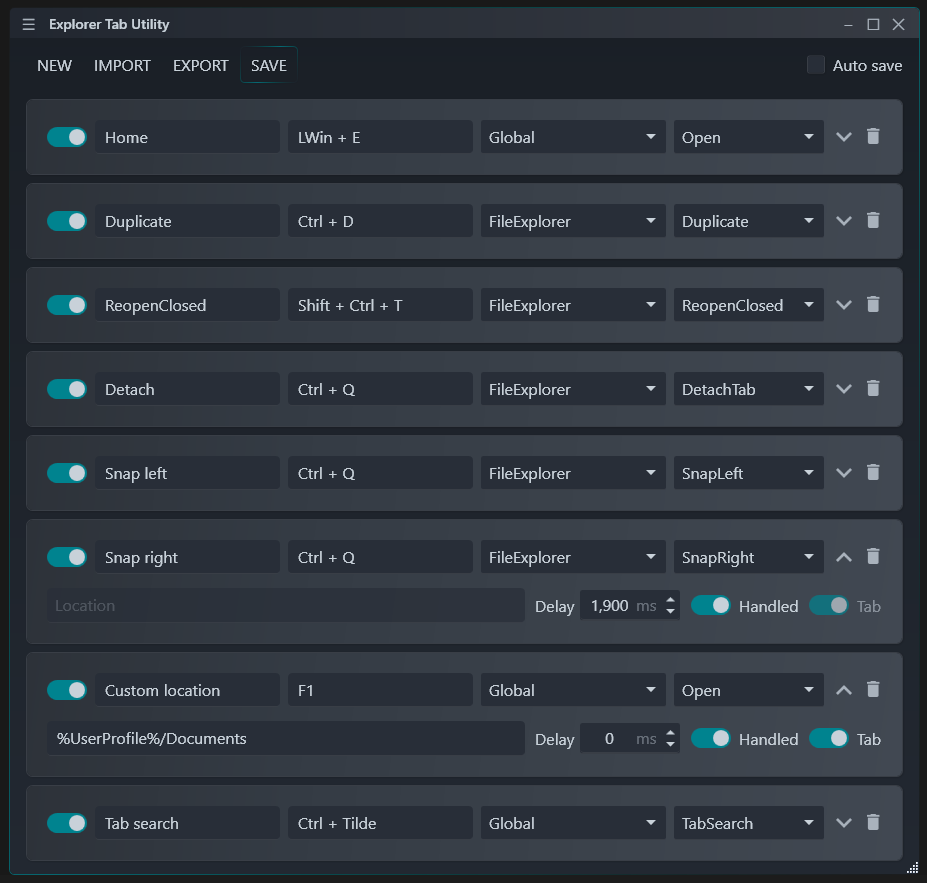
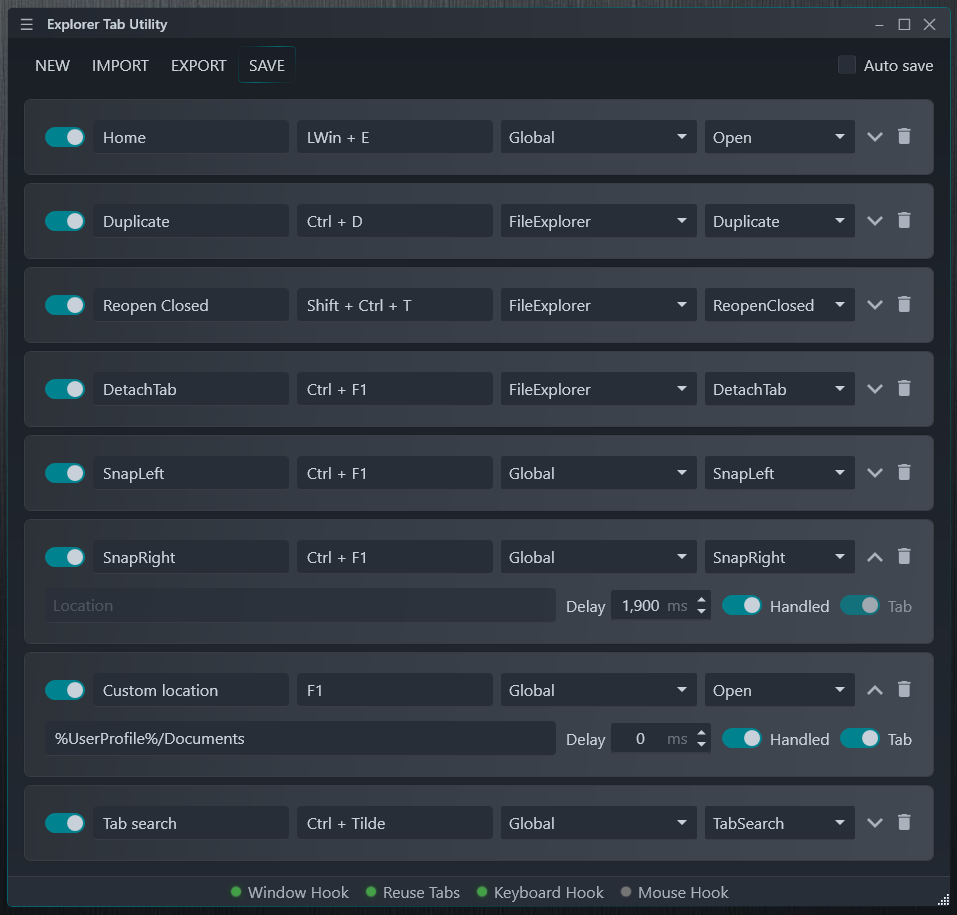
chore: update project version to 2.4.0 and enhance README
- Update the project version in ExplorerTabUtility.csproj to 2.4.0
- Add new features and settings documentation to README.md, including "Restore Previous Windows" and "Force New Window with Ctrl+Shift"
- Include new asset RestorePrevious.png for documentation

diff --git a/README.md b/README.md
@@ -56,9 +56,20 @@ Say goodbye to cluttered desktops with multiple Explorer windows! Explorer Tab U
 - Reopen previously closed tabs/windows
 - Choose whether to reopen as a tab or new window (toggle `Tab` option)
 - Restores the exact location and selected items
+- History is saved across application restarts (enable "Save closed history" in settings)
 
 **See it in action:**
 ![Reopen closed tabs](https://cdn.jsdelivr.net/gh/w4po/ExplorerTabUtility@master/Assets/ReopenClosedTab.gif)
+</details>
+
+<details>
+<summary>🔄 Restore Previous Windows</summary>
+
+- Automatically restore previously opened windows if File-Explorer restart/crash or system reboot
+- Configurable via "Restore previous windows" setting
+- Confirmation dialog allows you to choose whether to restore windows on first launch
+
+![Restore Previous Windows](https://cdn.jsdelivr.net/gh/w4po/ExplorerTabUtility@master/Assets/RestorePrevious.png)
 </details>
 
 <details>
@@ -78,9 +89,9 @@ Say goodbye to cluttered desktops with multiple Explorer windows! Explorer Tab U
 </details>
 
 <details>
-<summary>⬅ Navigate Back & Up</summary>
+<summary>⬅ Navigate Back & Forward</summary>
 
-- Navigate back/up in File Explorer using:
+- Navigate back/forward/up in File Explorer using:
   - Keyboard shortcuts (customizable)
   - Mouse clicks on any empty space in the folder
 - Perfect for quick navigation between directories
@@ -123,6 +134,14 @@ Say goodbye to cluttered desktops with multiple Explorer windows! Explorer Tab U
 </details>
 
 <details>
+<summary>🪟 Force New Window with Ctrl+Shift</summary>
+
+- Hold Ctrl+Shift while opening a location to force it to open as a new window
+- Temporarily overrides the window hook and tab reuse settings
+- Perfect for when you need a separate window without disabling the tab functionality
+</details>
+
+<details>
 <summary>⚡ Performance & Reliability</summary>
 
 - Lightweight and resource-efficient
@@ -138,7 +157,7 @@ Say goodbye to cluttered desktops with multiple Explorer windows! Explorer Tab U
     winget install w4po.ExplorerTabUtility
     ```
     ```powershell
-    choco install explorertabutility
+    choco install explorertabutility --version=2.4.0
     ```
 2. Run the application
 3. Look for the tray icon and you're ready to go!
@@ -154,8 +173,10 @@ Say goodbye to cluttered desktops with multiple Explorer windows! Explorer Tab U
 <details>
 <summary>🔧 General Settings</summary>
 
-- **WindowHook**: Enable/disable new windows being converted to tabs
-- **ReuseTabs**: Enable/disable reusing existing tabs instead of creating new ones
+- **Window Hook**: Enable/disable automatic window-to-tab conversion
+- **Reuse Tabs**: Switch to existing tabs instead of opening duplicates
+- **Keyboard Hook**: Enable/disable keyboard shortcuts
+- **Mouse Hook**: Enable/disable mouse navigation features
 - **Startup**: Configure automatic startup with Windows
 - **Settings Persistence**:
   * Your settings are stored in a JSON file located in your AppData folder:
@@ -170,7 +191,8 @@ Say goodbye to cluttered desktops with multiple Explorer windows! Explorer Tab U
 
 - **Auto update**: Automatically check for updates on startup to ensure you're always using the latest version
 - **I have theme issues**: Use an alternative window hiding method that preserves your custom File Explorer theme. Enable this if you experience theme-related issues
-- **Save closed windows**: Save recently closed windows when exiting the application and restore them on the next startup, allowing you to continue where you left off
+- **Save closed history**: Save recently closed windows for reopening later (ReopenClosed, Tab Search)
+- **Restore previous windows**: Restore previously opened windows after restart or crash
 - **Hide tray icon**: Hide the system tray icon for a cleaner taskbar experience.
   * You must first configure a hotkey with the `ToggleVisibility` action before enabling this option
 
@@ -189,30 +211,28 @@ Say goodbye to cluttered desktops with multiple Explorer windows! Explorer Tab U
 ### Profile Settings
 Each profile contains the following settings:
 
-1. **Basic Settings**
-   - Profile Name
-   - Hotkey Combination (set by focusing the input field and pressing desired keys)
-   - Scope: Global or Explorer-only (triggers only when File Explorer is focused)
-
-2. **Action Settings**
+1. **Basic Configuration**
+   - Hotkey: Set keyboard shortcut (supports modifier keys)
+   - Scope: Global (system-wide) or Explorer (only in File Explorer)
    - Action Type:
-     - `Open`: Open a new tab (optionally with specified path)
-     - `Duplicate`: Duplicate current tab
-     - `ReopenClosed`: Reopen last closed tab
-     - `TabSearch`: Open the tab search popup for quick navigation
-     - `SetTargetWindow`: Set current Explorer window as the destination for new tabs
-     - `ToggleWinHook`: Toggle window hook
-     - `ToggleReuseTabs`: Toggle tab reuse
-     - `ToggleVisibility`: Toggle form visibility
-     - `NavigateBack`: Navigate back in the current Explorer window
-     - `NavigateUp`: Navigate up one directory level in the current Explorer window
+     - `Open`: Open a specific location
+     - `Duplicate`: Duplicate the current tab
+     - `ReopenClosed`: Reopen the last closed location
+     - `TabSearch`: Open the tab search/switcher popup
+     - `NavigateBack`: Navigate back in the current tab
+     - `NavigateForward`: Navigate forward in the current tab
+     - `NavigateUp`: Navigate up one directory level
+     - `SetTargetWindow`: Mark the current window as the target for new tabs
+     - `ToggleWinHook`: Toggle the window hook on/off
+     - `ToggleReuseTabs`: Toggle tab reuse on/off
+     - `ToggleVisibility`: Show/hide the main window
      - `DetachTab`: Detach the current tab to a new window
      - `Snap`: Snap the current window to the screen edges (right/left/top/bottom)
    - Path Field (for `Open` action)
      - Optional: Leave empty to open new tab
      - Supports multiple path formats (see Custom Path Navigation section)
 
-3. **Advanced Settings**
+2. **Advanced Settings**
    - Execution Delay: Slider to set delay before action execution
    - Key Handling: Toggle whether hotkeys are passed to other applications
    - Profile Deletion: Remove unwanted profiles
@@ -290,6 +310,29 @@ Each profile contains the following settings:
 - WPF (Windows Presentation Foundation) for modern UI
 </details>
 
+## 🗑 Uninstallation
+
+The utility can be uninstalled in several ways depending on how you installed it:
+
+- **If you installed using the installer**: Use the standard Windows uninstaller
+  - Go to "Settings > Apps > Installed apps"
+  - Find "Explorer Tab Utility" and click "Uninstall"
+  - Or use Control Panel > Programs and Features
+  - Or run the uninstaller directly from the installation directory
+
+- **If you installed via winget**:
+  ```powershell
+  winget uninstall w4po.ExplorerTabUtility
+  ```
+
+- **If you installed via Chocolatey**:
+  ```powershell
+  choco uninstall explorertabutility
+  ```
+
+- **If you used the portable version**: Simply delete the application folder
+  - If you enabled the `Add to startup` option, make sure to disable it first before deletion
+
 ## Antivirus Detection
 
 > [!WARNING]
@@ -317,20 +360,6 @@ Alternatively, you can use PowerShell (Run as Administrator):
 ```powershell
 Add-MpPreference -ExclusionPath "PATH_TO_UTILITY_FOLDER"
 ```
-
-## 🗑 Uninstallation
-
-The utility is portable and can be removed by simply deleting its folder. However:
-
-- If you enabled the `Add to startup` option, make sure to disable it first before deletion
-- If you installed via winget, run:
-  ```powershell
-  winget uninstall w4po.ExplorerTabUtility
-  ```
-- If you installed via Chocolatey, run:
-  ```powershell
-  choco uninstall explorertabutility
-  ```
 
 ## ℹ Notes
 
